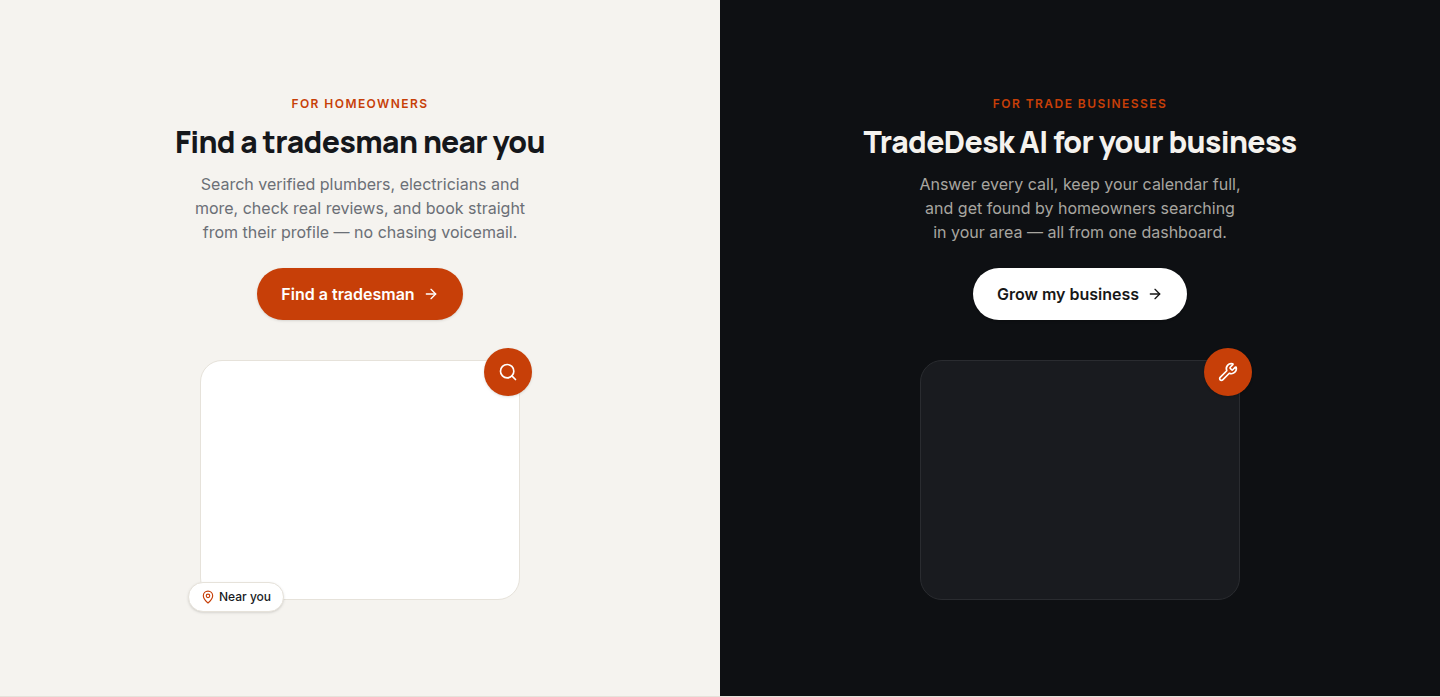
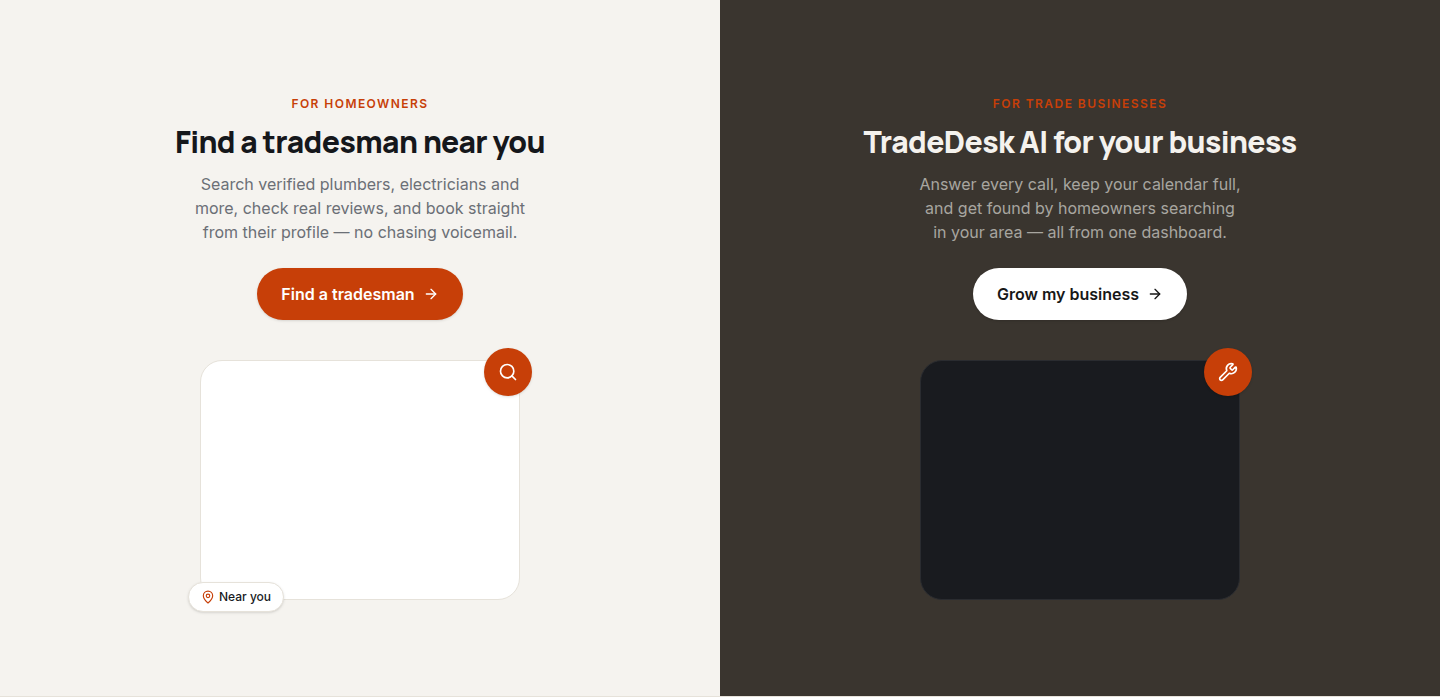
Reorder audience split above trust strip, warm up its dark panel
Move the two-audience section to sit directly under the hero (ahead of
the trust strip) per feedback on placement.

Also swap the business panel's background from .band-dark's default
near-black to the same warm charcoal-brown used as the hero photo's
fallback colour — pure black read as colder than the rest of the
site's warm, workwear-inspired palette.

Claude-Session: https://claude.ai/code/session_01D2AdKVX9wc36S7nrZDT2Cg

diff --git a/tradedesk-ai/components/marketing/audience-split.tsx b/tradedesk-ai/components/marketing/audience-split.tsx
@@ -47,8 +47,15 @@ function Panel({
     <div
       className={cn(
         "flex flex-col items-center px-6 py-16 text-center sm:px-10 md:py-24",
-        dark ? "band-dark bg-[var(--overlay)]" : "bg-secondary/60",
+        dark ? "band-dark" : "bg-secondary/60",
       )}
+      // A warm charcoal-brown rather than .band-dark's default near-black
+      // overlay — the same tone used as the hero photo's fallback colour,
+      // so the page's one dark tone stays consistent rather than adding a
+      // second one. An inline style wins outright, rather than depending on
+      // Tailwind's utility-vs-component layer ordering to beat .band-dark's
+      // own `background` rule.
+      style={dark ? { backgroundColor: "#3a352f" } : undefined}
     >
       <p className="kicker">{eyebrow}</p>
       <h2 className="display mt-3 text-2xl sm:text-3xl">{title}</h2>

diff --git a/tradedesk-ai/app/page.tsx b/tradedesk-ai/app/page.tsx
@@ -22,8 +22,8 @@ export default async function HomePage() {
     <>
       <main id="main" className="flex-1">
         <Hero categories={categories} locations={locations} />
-        <TrustStrip />
         <AudienceSplit />
+        <TrustStrip />
         <CategoryGrid
           categories={categories}
           defaultLocation={locations[0]?.slug ?? "naas"}

diff --git a/tradedesk-ai/docs/VISUAL_TOUR.md b/tradedesk-ai/docs/VISUAL_TOUR.md
@@ -26,21 +26,21 @@ Composed in [`app/page.tsx`](../app/page.tsx), section by section:
 
 Full-bleed photo hero (Booksy-style): a transparent header over a darkened photo, a centred headline, one search pill, and a row of trade chips. The animated tool-assembly badge top-right is [`components/marketing/tool-badge.tsx`](../components/marketing/tool-badge.tsx) — a Canvas 2D particle animation that assembles into a spanner/screwdriver emblem, then holds with a soft glow (static on `prefers-reduced-motion`). The search pill itself is [`components/marketing/hero-search.tsx`](../components/marketing/hero-search.tsx); the transparent nav bar is [`components/site/site-header.tsx`](../components/site/site-header.tsx) (`overlay` prop).
 
-### Trust strip
-
-![Trust strip](screenshots/trust-strip.png)
-
-**File:** [`components/marketing/trust-strip.tsx`](../components/marketing/trust-strip.tsx)
-
-A row of small credibility markers directly under the hero.
-
 ### Audience split
 
 ![Audience split](screenshots/audience-split.png)
 
 **File:** [`components/marketing/audience-split.tsx`](../components/marketing/audience-split.tsx)
 
-The two-audience pitch, right under the trust strip: a homeowner panel (find a tradesman) and a business panel (TradeDesk AI for your business), so a visitor sorts themselves in one glance. Each panel's photo is a local-only file — see [`public/images/README.md`](../public/images/README.md) (`audience-homeowner.jpg` / `audience-business.jpg`); the fallback tile shown here uses the same `bg-card` pattern as the hero and About photos.
+The two-audience pitch, right under the hero: a homeowner panel (find a tradesman) and a business panel (TradeDesk AI for your business), so a visitor sorts themselves in one glance. Each panel's photo is a local-only file — see [`public/images/README.md`](../public/images/README.md) (`audience-homeowner.jpg` / `audience-business.jpg`); the fallback tile shown here uses the same `bg-card` pattern as the hero and About photos. The business panel's background is a warm charcoal-brown (`#3a352f`, the same tone as the hero photo's fallback colour) rather than `.band-dark`'s default near-black, set via inline style so it doesn't depend on Tailwind's utility-vs-component cascade order.
+
+### Trust strip
+
+![Trust strip](screenshots/trust-strip.png)
+
+**File:** [`components/marketing/trust-strip.tsx`](../components/marketing/trust-strip.tsx)
+
+A row of small credibility markers, now sitting under the audience split rather than directly under the hero.
 
 ### Category grid
 
